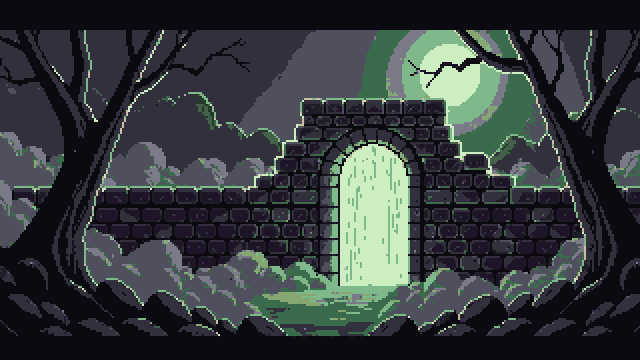
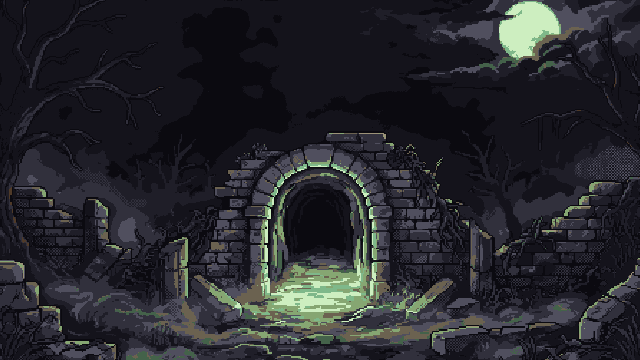
Title screen at full 640x360 (PixelLab pro, shown 1:1, no 2x); importer treats ui/title as full resolution; docs updated

diff --git a/tools/art/gen_title.py b/tools/art/gen_title.py
@@ -1,10 +1,12 @@
-"""The title screen: art/ui/title.png, 640x360 (320x180 logical pixels drawn at 2x, the same chunky pixels as
-the rest of the UI).
+"""The title screen: art/ui/title.png, 640x360 at FULL RESOLUTION: one art pixel is one pixel of the 640x360
+screen (the menu shows it 1:1, and the window then scales the whole screen by a whole number), so it has the
+same fine pixels as the doubled dungeon art, finer than the 2x UI blocks. It is not enlarged here.
 
-The picture is a PixelLab image (the entrance to a cursed dungeon at night: a ruined archway with a sickly green
-glow, dead twisted trees, fog, a dark band of sky at the top left clear for the logo). The source piece is
-tools/art/pieces/title.png (320x180); this snaps it to the palette and enlarges it. With no piece, a plain
-dark gradient is written so the game still has a title background.
+The picture is a PixelLab image drawn at 640x360 (create_image_pro: the entrance to a cursed dungeon at night, a
+ruined archway with a sickly green glow from deep inside, dead twisted trees, fog, dark sky at the top left clear for
+the logo). The source piece is tools/art/pieces/title.png (640x360; title_alt.png is an alternative drawn with
+create_image_pixen); this only snaps it to the palette. The first version was 320x180 doubled: it is kept in
+tools/art/_old/ui/. With no piece, a plain dark gradient is written so the game still has a title background.
 """
 from pathlib import Path
 
@@ -14,12 +16,15 @@ from artio import save_png
 from palette import PAL
 
 PIECE = Path(__file__).parent / "pieces" / "title.png"
-W, H = 320, 180
+W, H = 640, 360
 
 
 def title():
     if PIECE.exists():
-        return PAL.snap(Image.open(PIECE).convert("RGBA").resize((W, H), Image.NEAREST))
+        img = Image.open(PIECE).convert("RGBA")
+        if img.size != (W, H):  # A smaller piece (e.g. the old 320x180) is enlarged by a whole number if it can be.
+            img = img.resize((W, H), Image.NEAREST)
+        return PAL.snap(img)
     img = Image.new("RGBA", (W, H))
     px = img.load()
     ramp = [PAL["ink"], PAL["stone_900"], PAL["stone_800"]]
@@ -30,4 +35,5 @@ def title():
 
 
 def build(scale=2):
-    return [save_png(title(), "ui/title.png", scale=scale)]
+    """`scale` is ignored on purpose: the title is full resolution, whatever the UI scale is."""
+    return [save_png(title(), "ui/title.png", scale=1)]

diff --git a/tools/art/test_import_pixellab.py b/tools/art/test_import_pixellab.py
@@ -54,7 +54,7 @@ def make_world(tmp):
     for rel in ["tiles/wall.png", "items/dagger.png", "items/dagger_hud.png", "items/dagger_floor.png", "items/key.png",
                 "sprites/key.png", "sprites/torch.png", "sprites/torch_sheet.json", "sprites/lever.png", "sprites/lever_sheet.json",
                 "portraits/fighter/portrait.png", "portraits/fighter/portrait_hurt.png", "portraits/fighter/portrait_dead.png", "portraits/mage/portrait.png",
-                "ui/quickslot.png"]:
+                "ui/quickslot.png", "ui/title.png"]:
         (art / rel).parent.mkdir(parents=True, exist_ok=True)
         shutil.copy2(ART_DIR / rel, art / rel)
     shutil.copytree(ART_DIR / "monsters" / "skeleton", art / "monsters" / "skeleton", ignore=shutil.ignore_patterns("*.import"))
@@ -119,6 +119,7 @@ with tempfile.TemporaryDirectory() as t:
           cat["tiles/wall"].size == (128, 128) and cat["items/dagger"].size == (48, 48) and cat["items/dagger_hud"].size == (24, 24) and cat["items/dagger_floor"].size == (48, 48))
     check("UI art is flagged (items, portraits, ui), 3D art is not (tiles, floor icons, sprites)",
           cat["items/dagger"].ui and cat["portraits/fighter/portrait"].ui and cat["ui/quickslot"].ui and not cat["tiles/wall"].ui and not cat["items/dagger_floor"].ui and not cat["sprites/key"].ui)
+    check("the title screen is full resolution: 640x360, not UI art (no 2x)", cat["ui/title"].size == (640, 360) and not cat["ui/title"].ui)
     check("monster frames know their frame size and the sheet its kind", cat["monsters/skeleton/idle_0"].size == (96, 128) and cat["monsters/skeleton/skeleton_sheet"].kind == "monster_sheet" and cat["sprites/torch"].kind == "sprite_sheet")
 
     # ---- palette snapping

diff --git a/tools/art/import_pixellab.py b/tools/art/import_pixellab.py
@@ -13,7 +13,8 @@ WHAT IT DOES TO EACH IMAGE
      no soft edges, and the palette check only knows solid pixels).
   2. Size: nearest-neighbour only, to the size of the art it replaces (read from the files in
      art/ at run time, so it follows whatever the game currently uses). UI art (items, portraits,
-     ui/) is stored at --scale (default 2) times its logical size: an export at the logical size is
+     ui/, except the full-resolution title screen ui/title, 640x360 as drawn) is stored at --scale
+     (default 2) times its logical size: an export at the logical size is
      enlarged by the scale; one already at the stored size is left alone; any other whole-number
      factor is applied as is; anything else is resized with a warning.
   3. Colour: every pixel snapped to the nearest colour in palette.json. No dithering unless
@@ -101,6 +102,8 @@ def is_ui_art(key):
     """UI art is drawn on a logical grid and stored enlarged by the UI scale; 3D art (tiles,
     sprites, monsters, floor icons) is stored as drawn."""
     parts = key.split("/")
+    if key == "ui/title":
+        return False  # The title screen is full resolution (640x360 as drawn), not 2x blocks.
     if parts[0] in ("ui", "portraits"):
         return True
     return parts[0] == "items" and not parts[1].endswith("_floor")

diff --git a/CLAUDE.md b/CLAUDE.md
@@ -69,7 +69,7 @@ Nothing is checked in for the game itself. The working approach has been throwaw
 
 **Scene tree** (`scenes/main.tscn`): `Dungeon` (builder; creates all meshes/sprites/lights in code), `Player` (with `Camera3D` and a torch light), `Party`, plus self-contained overlays `DebugOverlay` (Tab: a small translucent 11x9-cell minimap that follows the player, top-right of the 3D view, plus `x,z facing`; `minimap.gd`), `Hud`, `PartyHud`, `LevelComplete`, `GameOver`.
 
-**Other top-level scenes:** `scenes/main_menu.tscn` is the **startup scene** (`run/main_scene`; F5 in the editor opens the menu, press New Game or run `main.tscn` directly with F6) and is also reached from Game over's "Quit to Menu" via `get_tree().change_scene_to_file()`, not as a child of `main.tscn`. It is a `Node3D`: its background is the **title screen picture** `art/ui/title.png` (a PixelLab image, 320x180 drawn at 2x: a ruined archway at night with a sickly green glow, dead trees and fog, a dark band at the top for the logo; `TitleArt`, added in `_show_title_art`), and the 3D corridor below, kept as a fallback, is hidden and not rendering. That corridor is the game's own level -- the same `dungeon_builder.gd` with `populate = false` (architecture, torches and lever only, no items or monsters), the same textures, a camera at cell (6,13) looking east down the long corridor (`VIEW_CELL` in `main_menu.gd`: update it if the level changes) with a flickering camera torch and a slow drift, rendered in a 640x360 viewport at 1x -- with the UI on a `CanvasLayer` over it. Buttons: New Game, Load Game (greyed out without a save; `SaveGame.load_game`), Options, Quit. **Options** has three volume rows, Master / Music / Effects (see **Audio**), each 0-100% in 10% steps via -/+ buttons or the left/right arrows on the focused row, a `SCREEN: FULLSCREEN / WINDOWED` button (see **Display modes**) and a `FOG: ON / OFF` button (see **Spell lighting**); all saved to `user://settings.cfg`; a change plays a click so it can be heard. The menu applies the saved volume at startup, so launching `main.tscn` directly runs at full volume. The font is **Press Start 2P** (SIL OFL, `art/fonts/`, licence in `OFL.txt`; keep it with the font): use sizes that are multiples of 8 (title 16, text 8) and keep its `.import` settings `antialiasing=0`, `hinting=0`, `subpixel_positioning=0` or the pixels blur. The title's drop shadow is `rust_700` at 2,2 with a 2px `ink` outline; every UI colour is a palette colour (hard-coded as palette-named consts in `main_menu.gd`, as in the HUD).
+**Other top-level scenes:** `scenes/main_menu.tscn` is the **startup scene** (`run/main_scene`; F5 in the editor opens the menu, press New Game or run `main.tscn` directly with F6) and is also reached from Game over's "Quit to Menu" via `get_tree().change_scene_to_file()`, not as a child of `main.tscn`. It is a `Node3D`: its background is the **title screen picture** `art/ui/title.png` (a PixelLab image drawn at **640x360, full resolution and shown 1:1, not enlarged**: a ruined archway at night with a sickly green glow from deep inside, dead trees and fog, dark sky at the top left for the logo; `TitleArt`, added in `_show_title_art`), and the 3D corridor below, kept as a fallback, is hidden and not rendering. That corridor is the game's own level -- the same `dungeon_builder.gd` with `populate = false` (architecture, torches and lever only, no items or monsters), the same textures, a camera at cell (6,13) looking east down the long corridor (`VIEW_CELL` in `main_menu.gd`: update it if the level changes) with a flickering camera torch and a slow drift, rendered in a 640x360 viewport at 1x -- with the UI on a `CanvasLayer` over it. Buttons: New Game, Load Game (greyed out without a save; `SaveGame.load_game`), Options, Quit. **Options** has three volume rows, Master / Music / Effects (see **Audio**), each 0-100% in 10% steps via -/+ buttons or the left/right arrows on the focused row, a `SCREEN: FULLSCREEN / WINDOWED` button (see **Display modes**) and a `FOG: ON / OFF` button (see **Spell lighting**); all saved to `user://settings.cfg`; a change plays a click so it can be heard. The menu applies the saved volume at startup, so launching `main.tscn` directly runs at full volume. The font is **Press Start 2P** (SIL OFL, `art/fonts/`, licence in `OFL.txt`; keep it with the font): use sizes that are multiples of 8 (title 16, text 8) and keep its `.import` settings `antialiasing=0`, `hinting=0`, `subpixel_positioning=0` or the pixels blur. The title's drop shadow is `rust_700` at 2,2 with a 2px `ink` outline; every UI colour is a palette colour (hard-coded as palette-named consts in `main_menu.gd`, as in the HUD).
 
 **Decoupling is by node groups.** The player never holds references to the world; it calls `get_tree().call_group(...)`:
 - `"dungeon"` (builder): `open_door`, `pull_lever`, `refresh` via `call_group`; `item_at`/`take_item`/`place_item` need a return value, so callers fetch the node directly instead (`get_tree().get_first_node_in_group("dungeon")`)
@@ -121,7 +121,7 @@ So the overlay, HUD and level-complete scenes can be deleted from `main.tscn` wi
 
 **Discoverability of the character sheet** (`party_hud.gd`, `inventory_screen.gd`, `settings.gd`): every clickable part of a party panel gets the same treatment (`_make_hoverable`: a pointing-hand cursor and a slight brighten of `self_modulate`, which nothing else uses; portraits, hands, quick slots and the name's scroll icon), and the hero's **name** also turns torch gold with a 2 px underline and the tooltip "Character sheet (C)". A small rolled-scroll button (`art/ui/name_scroll.png`, `gen_ui.name_scroll`, 16x16 drawn overhanging its 12 px row so the panel stays 170 px tall; `layout_test` checks it) beside each name opens the sheet too. **Keys:** C opens the sheet for the hero whose panel the mouse is over, else the one last looked at (`InventoryScreen.focused_slot`), and closes the sheet when it shows; Shift+1 to Shift+4 open the hero in that position directly (`inventory_screen._unhandled_input`, ignored while another screen owns the pause; `player.gd` skips the 1-8 quick-slot keys while Shift is held). **First-time hint** (`party_hud._first_time_hint`): the first time a party panel appears in a new game (not a loaded one) the four names pulse twice and the log says "Click a name to see their character sheet."; remembered in `user://settings.cfg` (`Settings.hint_seen/mark_hint`, section `hints_seen`), switched off by `Settings.show_hints` (Options: `HINTS: ON/OFF`). There is no banter system yet, so the Mage's "You can click my name" line from the brief is not implemented.
 
-**UI art style** (the PixelLab UI pass): `tools/art/pieces/` holds PixelLab source pieces that generators compose (not game art, so the importer never sees them): `frame_stone.png` (a 32x32 blackened-brick tile, used as the background of the log, arrows and party wells in `gen_frame.pixellab_masonry` / `dark_panel`) and `title.png` (`gen_title.py` snaps it to the palette and enlarges it 2x). **The frame has no visible masonry**: its four windows sit 4 logical px apart, so the stone between them is all window lips; the lips are rusted iron (`rust_700` shaded, `rust_300` lit), the studs are rust, and a 4x4 bone skull sits in each screen corner (inside the 4 px margin, so the 3D view's hole stays exactly `VIEW`). A thicker stone frame with chains and large corner ornaments would need a smaller view or smaller party panels. The arrows (blackened stone, rusted iron bevel) and filled quick slots (rusted iron bevel) were restyled by script because PixelLab's 32x32 minimum is bigger than these 8 to 16 logical px pieces. Options is laid out in two columns on a dark panel (`_arrange_options`); the switches read `FLASHING: REDUCED / NORMAL`.
+**UI art style** (the PixelLab UI pass): `tools/art/pieces/` holds PixelLab source pieces that generators compose (not game art, so the importer never sees them): `frame_stone.png` (a 32x32 blackened-brick tile, used as the background of the log, arrows and party wells in `gen_frame.pixellab_masonry` / `dark_panel`) and `title.png` (640x360, made with `create_image_pro`; `title_alt.png` is a Pixen alternative; `gen_title.py` only snaps it to the palette, no 2x, and the importer treats `ui/title` as full resolution, not UI art; PixelLab's limits are pixflux 400x400, pixen 768 per side up to 512x512 of area, pro 688x384 for 16:9, so 640x360 fits; the old 320x180-doubled version is in `tools/art/_old/ui/`). **The frame has no visible masonry**: its four windows sit 4 logical px apart, so the stone between them is all window lips; the lips are rusted iron (`rust_700` shaded, `rust_300` lit), the studs are rust, and a 4x4 bone skull sits in each screen corner (inside the 4 px margin, so the 3D view's hole stays exactly `VIEW`). A thicker stone frame with chains and large corner ornaments would need a smaller view or smaller party panels. The arrows (blackened stone, rusted iron bevel) and filled quick slots (rusted iron bevel) were restyled by script because PixelLab's 32x32 minimum is bigger than these 8 to 16 logical px pieces. Options is laid out in two columns on a dark panel (`_arrange_options`); the switches read `FLASHING: REDUCED / NORMAL`.
 
 **Pause menu** (`pause_menu.gd`, node `PauseMenu` in `main.tscn`, group `"pause_menu"`, canvas layer 19, built in code): Escape in play opens it and pauses; Escape or Resume closes it. Buttons: Resume, Save Game, Load Game (greyed with no save), Quit to Menu, Quit to Desktop. It saves through `SaveGame.save` directly (the F5/K refusal while paused lives in `SaveManager`, not `SaveGame`). Escape is used first by whatever is open: the inventory (`inventory_screen.gd` now marks it handled), the spell pop-up / target mode and formation drag (`party_hud.gd`); and the menu never opens when the tree is already paused (inventory, Level complete, Game over).
 

diff --git a/docs/art_style.md b/docs/art_style.md
@@ -121,6 +121,7 @@ same size in the world):**
 | Asset | Make it this size | Game file | Notes |
 |---|---|---|---|
 | Wall, floor, ceiling, door, locked door, cracked wall, portcullis, plate, stairs tiles | **128x128** | 128x128 | Seamless where they tile (wall, floor, ceiling). The portcullis has a transparent background (bars only). The cracked wall carries a crack in each of the six cells a box face can show (see `gen_tiles.py`). |
+| Title screen (`ui/title`) | **640x360, full resolution** | 640x360 | Not UI art: no 2x blocks, one art pixel per screen pixel, shown 1:1 behind the main menu, so it matches the fine pixels of the doubled dungeon art. Made at full size with `create_image_pro` (limits: pixflux 400x400; pixen 768 per side, area up to 512x512; pro 688x384 for 16:9, so 640x360 fits in one image, no layers needed). The entrance to a cursed dungeon at night: ruined archway, sickly green glow from deep inside, dead twisted trees, fog, dark sky at the top left clear for the logo. The importer leaves a 640x360 export as is. |
 | Skeleton, skeleton guard monster frames | **96x128** each | 96x128 | Front-facing, `pixel_size` 0.014. Sheet = 11 frames side by side (1056x128): idle x2, attack x3, hurt x2 (hurt, flash), **walk x4** (a stride that loops while it steps toward the party). The lowest pixel of each frame is put on the floor by the game, so empty space under the feet is fine. |
 | Slime, acid slime monster frames | **96x96** each | 96x96 | Front-facing, `pixel_size` 0.02. Sheet = 12 frames (1152x96): idle x3, attack x3, hurt x2, walk x4 (a squash-and-crawl). The game stands the lowest pixel of each frame on the floor. |
 
